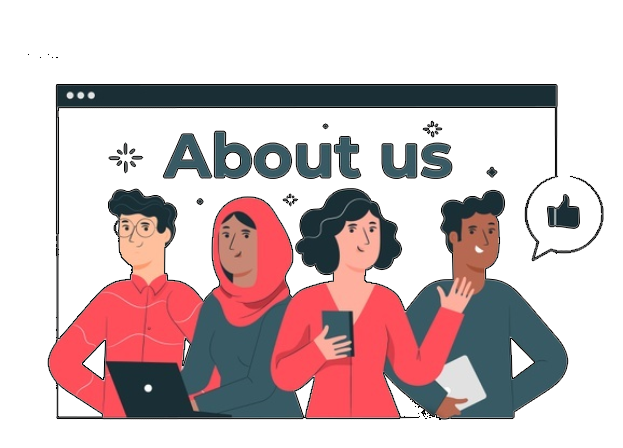
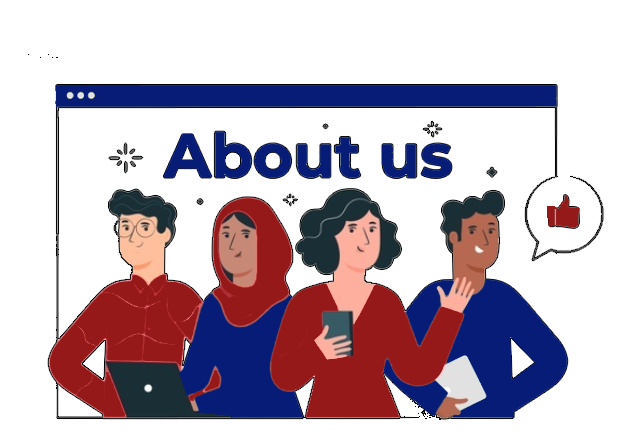
jazmin -> changes on login page theme

diff --git a/public/Manage/css/style.css b/public/Manage/css/style.css
@@ -558,7 +558,7 @@ a {
 h1, h2, h3, h4, h5, h6,
 .h1, .h2, .h3, .h4, .h5, .h6 {
   font-family: "Poppins", sans-serif; 
-  font color: #50347A;}
+  font color: #05066A;}
 
 a {
   -webkit-transition: .3s all ease;
@@ -572,7 +572,7 @@ a {
 
 h1 {
   font-size: 45px;
-  color: #50347A; }
+  color: #05066A; }
 
 @media (max-width: 991.98px) {
   .content .bg {
@@ -630,7 +630,7 @@ h1 {
       box-shadow: none; }
 
 .col-md-8 {
-    background-color: #9EA7AD;
+    background-color: #C7E1FF;
     border-radius: 10px;
 }
 
@@ -649,10 +649,10 @@ h1 {
 
 .btn.btn-primary {
     border-radius: 20px;
-    background-color: #50347A;
+    background-color: #890909;
     color: #fff
 }
 
 .btn.btn-primary:hover {
-    background-color: #332355
+    background-color: #680000
 }

diff --git a/resources/views/auth/login.blade.php b/resources/views/auth/login.blade.php
@@ -17,7 +17,7 @@
         <nav class="navbar navbar-expand-lg bg-gradient-default  py-3">
             <div class="container ">
                 <a class="navbar-brand text-white" href="{{ route('home') }}">
-                    <span>Attendance System</span>
+                    <span> <b> Attendance System </b></span>
                 </a>
                 <button class="navbar-toggler" type="button" data-toggle="collapse" data-target="#navbarNav" aria-controls="navbarNav" aria-expanded="false" aria-label="Toggle navigation">
                     <i class="fa fa-bars text-light"></i>
@@ -98,7 +98,7 @@
               <div class="form-group row mb-0">
                             <div class="col-12 d-flex justify-content-center">
                                 <button type="submit" class="btn btn-primary btn-block mx-3 border-0">
-                                    {{ __('Login') }}
+                                    {{ __('LOG IN') }}
                                 </button>
 
                                 @if (Route::has('password.request'))
